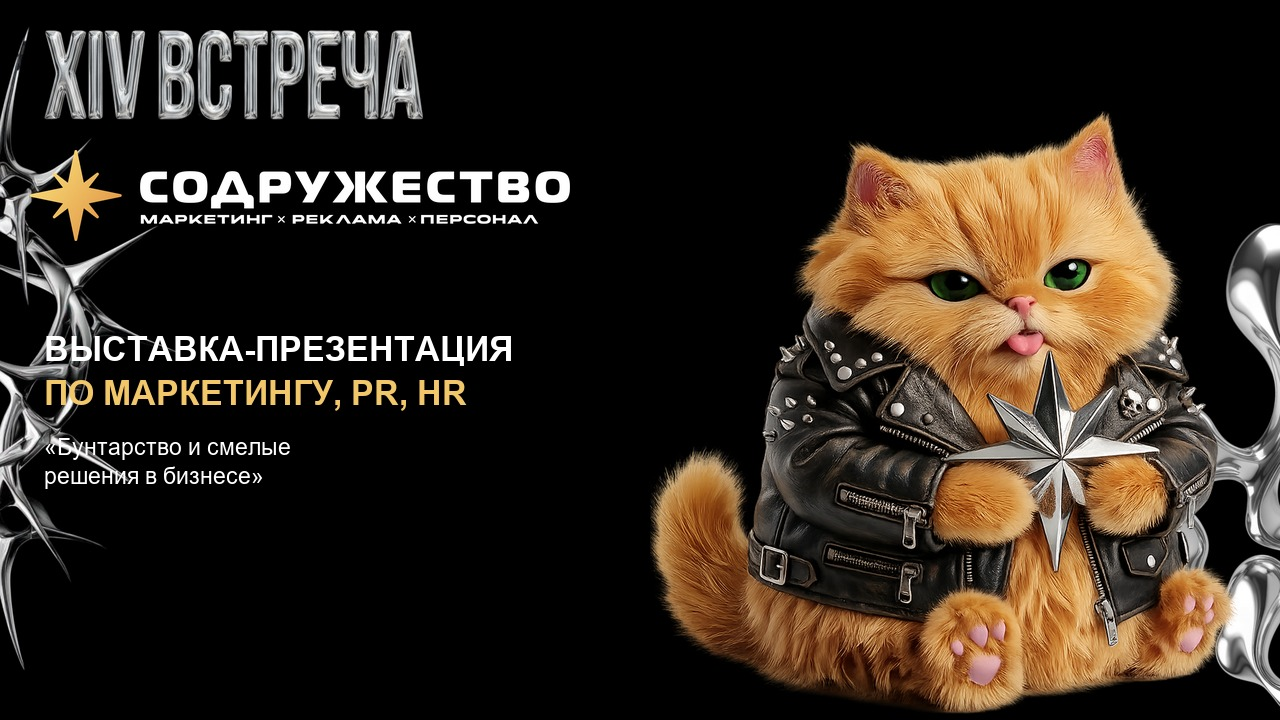
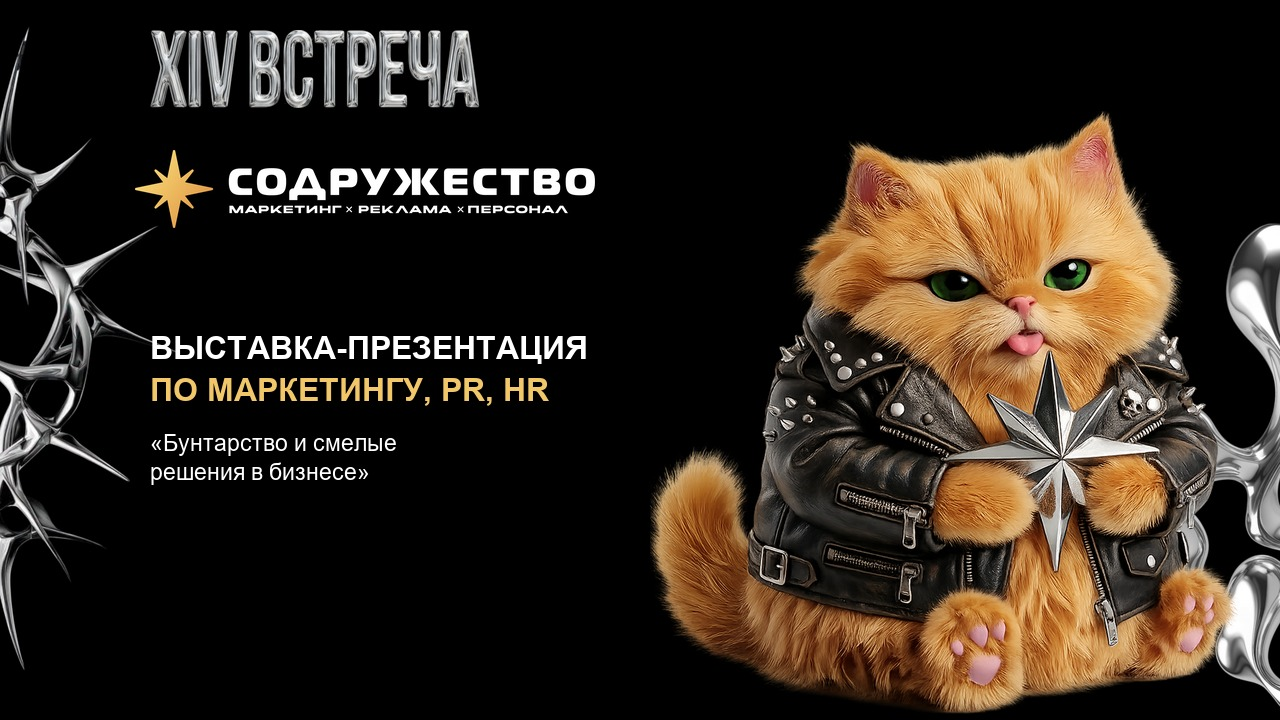
Сместить текст и кнопку на баннере «Содружества» вправо
Заголовок, подпись и кнопка «Программа встречи» отодвинуты от левого
края с декоративными шипами ближе к центру баннера. Позиция кнопки
переведена на проценты, чтобы масштабировалась вместе с картинкой.

diff --git a/css/style.css b/css/style.css
@@ -3023,15 +3023,13 @@ body.show-diff-only .compare-table--full tbody tr[data-uniform="true"] {
 
 .article-shot__cta {
   position: absolute;
-  left: 24px;
-  bottom: 24px;
+  left: 11.5%;
+  bottom: 6%;
   z-index: 2;
 }
 
 @media (max-width: 560px) {
   .article-shot__cta {
-    left: 16px;
-    bottom: 16px;
     padding: 11px 18px;
     font-size: 13px;
   }
